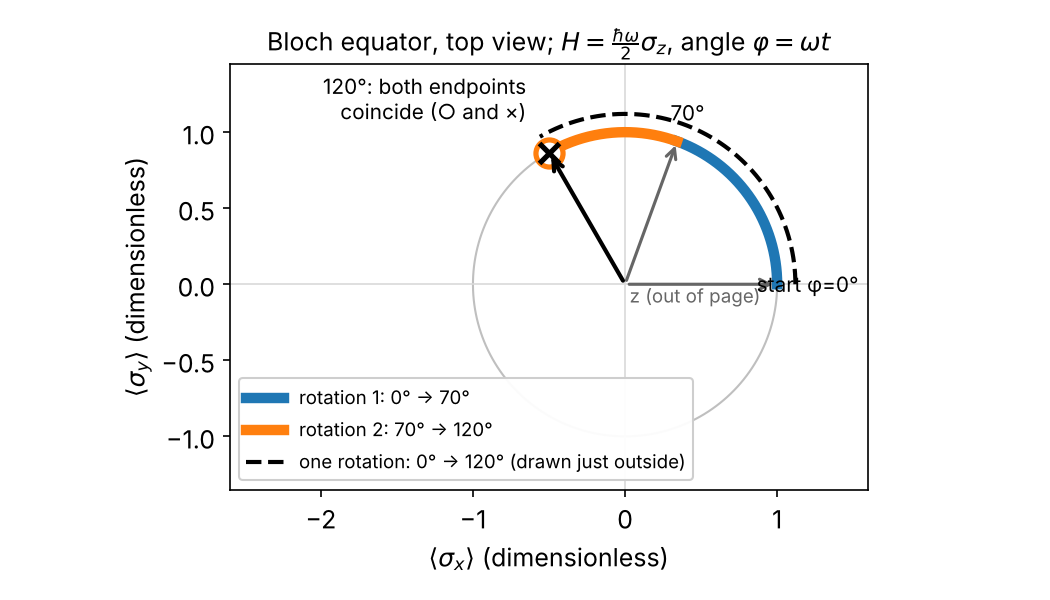
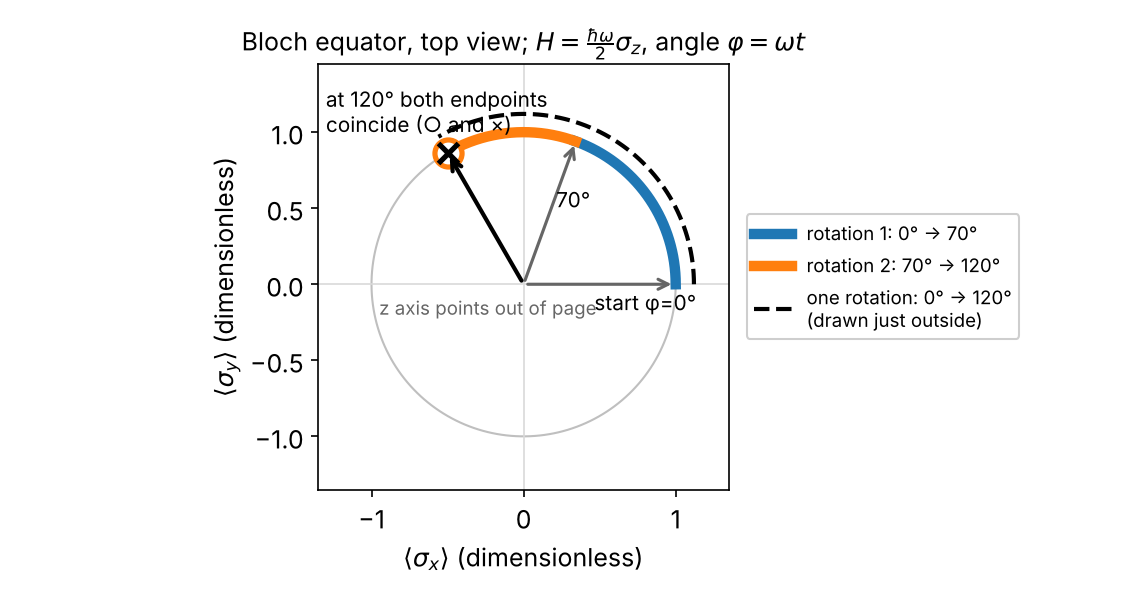
Debate run: verifier B figures (in progress)
Claude-Session: https://claude.ai/code/session_011EeWx5AEdppYiarvRbDBmd

diff --git a/work/20261026-145241-schrodinger-from-axioms/checks/fig_b-bloch-precession.py b/work/20261026-145241-schrodinger-from-axioms/checks/fig_b-bloch-precession.py
@@ -13,22 +13,21 @@ a12 = arc(psi0, 120)
 end_two = bloch(U(np.radians(50))@mid); end_one = bloch(U(np.radians(120))@psi0)
 assert np.allclose(end_two, end_one)
 plt.rcParams.update({"font.size": 12})
-fig, ax = plt.subplots(figsize=(7, 4))
+fig, ax = plt.subplots(figsize=(7.5, 4))
 th = np.linspace(0, 2*np.pi, 400); ax.plot(np.cos(th), np.sin(th), color="0.75", lw=1)
 ax.axhline(0, color="0.85", lw=0.8); ax.axvline(0, color="0.85", lw=0.8)
 ax.plot(a1[:,0], a1[:,1], "-", color="tab:blue", lw=5, label="rotation 1: 0° → 70°")
 ax.plot(a2[:,0], a2[:,1], "-", color="tab:orange", lw=5, label="rotation 2: 70° → 120°")
-r = 1.12; ax.plot(r*a12[:,0], r*a12[:,1], "k--", lw=2, label="one rotation: 0° → 120° (drawn just outside)")
+r = 1.12; ax.plot(r*a12[:,0], r*a12[:,1], "k--", lw=2, label="one rotation: 0° → 120°\n(drawn just outside)")
 for (px, py), lab in [((1, 0), "start φ=0°"), (bloch(mid), "70°")]:
     ax.annotate("", (px, py), (0, 0), arrowprops=dict(arrowstyle="->", color="0.4", lw=1.5))
-    ax.text(1.2*px, 1.2*py, lab, ha="center", va="center", fontsize=10)
+    ax.text(0.72*px+0.08, 0.72*py-0.12, lab, ha="center", va="center", fontsize=10)
 ax.annotate("", end_one, (0, 0), arrowprops=dict(arrowstyle="->", color="k", lw=2))
-ax.plot(*end_two, "o", ms=13, mfc="white", mec="tab:orange", mew=2.5)
-ax.plot(*end_one, "x", ms=10, color="k", mew=2.5)
-ax.text(end_one[0]-0.15, end_one[1]+0.22, "120°: both endpoints\ncoincide (○ and ×)", ha="right", fontsize=10)
-ax.text(0.03, -0.12, "z (out of page)", fontsize=9, color="0.4")
+ax.plot(*end_two, "o", ms=13, mfc="white", mec="tab:orange", mew=2.5, ls="none", label="end after rotations 1+2")
+ax.plot(*end_one, "x", ms=10, color="k", mew=2.5, ls="none", label="end after single rotation\n(same point)")
+ax.text(0, -1.25, "z axis points out of the page", ha="center", fontsize=9, color="0.4")
 ax.set_xlabel(r"$\langle\sigma_x\rangle$ (dimensionless)"); ax.set_ylabel(r"$\langle\sigma_y\rangle$ (dimensionless)")
-ax.set_aspect("equal"); ax.set_xlim(-2.6, 1.6); ax.set_ylim(-1.35, 1.45)
-ax.legend(loc="lower left", fontsize=9, framealpha=0.95)
+ax.set_aspect("equal"); ax.set_xlim(-1.35, 1.35); ax.set_ylim(-1.35, 1.45)
+ax.legend(loc="center left", bbox_to_anchor=(1.02, 0.5), fontsize=9, framealpha=0.95)
 ax.set_title(r"Bloch equator, top view; $H=\frac{\hbar\omega}{2}\sigma_z$, angle $\varphi=\omega t$", fontsize=12)
 fig.tight_layout(); fig.savefig(out, dpi=150); print("saved", os.path.abspath(out))

diff --git a/work/20261026-145241-schrodinger-from-axioms/checks/fig_b-rabi-continuity.py b/work/20261026-145241-schrodinger-from-axioms/checks/fig_b-rabi-continuity.py
@@ -20,9 +20,9 @@ ax.plot(ts*1e6, curve, "k-", lw=2, label="one pulse of length t")
 ax.plot((t1+seg2)*1e6, p2, "--", color="tab:orange", lw=2.5, label="pulse 1 (30 µs), then pulse 2")
 ax.plot(t1*1e6, P(psi1), "o", ms=9, mfc="white", mec="k", mew=2)
 ax.plot((t1+t2)*1e6, P(psi12), "s", ms=10, mfc="tab:orange", mec="k", mew=1.5)
-ax.annotate(f"after 30 µs: P = {P(psi1):.3f}", (30, P(psi1)), (36, 0.80), fontsize=10,
+ax.annotate(f"after 30 µs:\nP = {P(psi1):.3f}", (30, P(psi1)), (3, 0.76), fontsize=10,
             arrowprops=dict(arrowstyle="->"))
-ax.annotate(f"30 µs + 50 µs: P = {P(psi12):.3f}\n= single 80 µs pulse", (80, P(psi12)), (92, 0.12), fontsize=10,
+ax.annotate(f"30 µs + 50 µs: P = {P(psi12):.3f}\n= single 80 µs pulse", (80, P(psi12)), (55, 0.07), fontsize=10, ha="center",
             arrowprops=dict(arrowstyle="->"))
 ax.set_xlabel("pulse length t (µs)"); ax.set_ylabel("spin-flip probability P(t)")
 ax.set_xlim(0, 200); ax.set_ylim(-0.02, 1.12)
